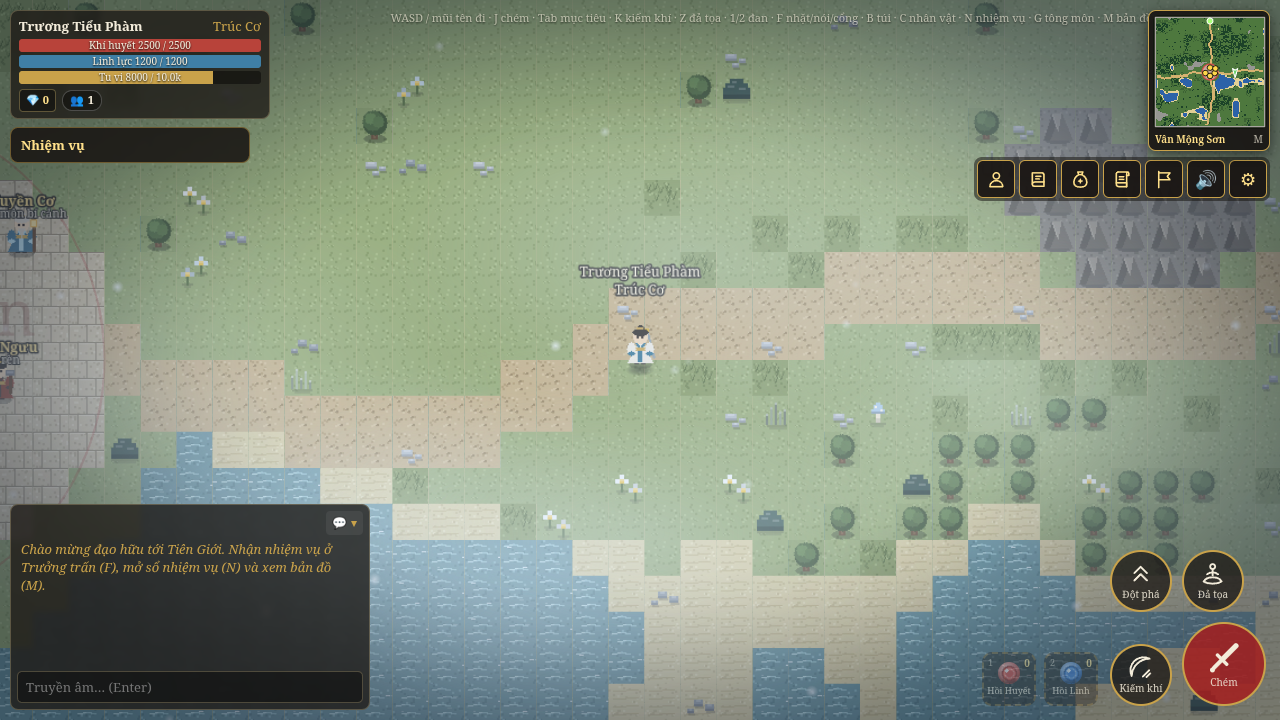
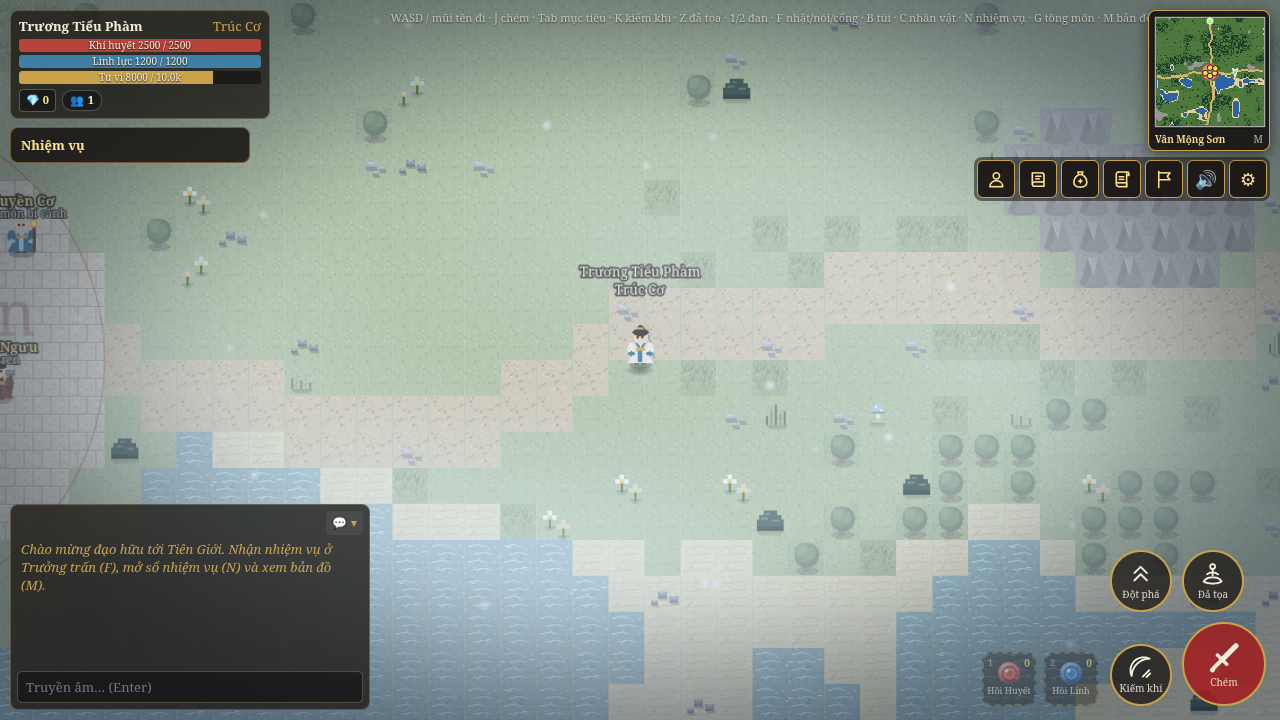
client: #509 tileTint (màu phủ nền theo kiểu bản đồ: tuyết phủ ở Hàn Vân Lĩnh) + cache styleId (nit của A ở #574) (Refs #509)
- MapStyle.tileTint?: { color, alpha } (trần MAX_TILE_TINT_ALPHA 0,45, validateStyle), planTileTint; MAP_STYLES.han_van #e6f0fa alpha 0,36
- WorldScene: một hình chữ nhật phủ cả bản đồ ngay TRÊN lớp ô (độ sâu -9,8) và dưới trang trí / nước / thực thể; chỉ khi kiểu khai báo (chi phí 0 ở bản đồ khác); huỷ khi dựng lại hình bản đồ; không dùng Tile.tint (nhân màu, chỉ làm tối)
- styleId() chốt MỘT lần cho mỗi bản đồ (styleMemo) thay vì tạo URLSearchParams mỗi khung (nit của A: vòng nóng thời tiết / nước)
- check-han-van-style.mjs (Chrome thật): lớp phủ phủ cả bản đồ 3072x3072, đúng độ sâu, đúng màu; nền sáng hơn (173,1 -> 199,3) và lạnh hơn (-47,4 -> -2,0); cảnh mặc định không có; dựng lại không tích luỹ lớp phủ; 4 đột biến tích hợp đỏ
- docs/THIET_KE_NHAN_VAT_6_O.md: ghi trả lời hợp đồng của A, tileTint đã làm; ảnh xem trước chụp lại

diff --git a/client/src/gfx/map-style.ts b/client/src/gfx/map-style.ts
@@ -25,6 +25,12 @@ export interface MapStyle {
   readonly label: string;
   /** Màu môi trường phủ lên cảnh (một sprite gradient, chỉ khi `ambient`); `alpha` 0..1. */
   readonly ambient: { readonly color: number; readonly alpha: number };
+  /**
+   * Màu phủ lên NỀN ô (một hình chữ nhật phủ cả bản đồ, trên lớp ô + dưới trang trí / nước / thực thể; không thêm ảnh, không thêm loại ô): làm nền sáng / lạnh theo
+   * vùng (tuyết phủ ở Hàn Vân Lĩnh) khi bộ ô dùng chung chỉ có cỏ xanh. Không nhân màu (nhuộm kiểu nhân chỉ làm tối): phủ thường nên kéo màu cỏ về phía `color`.
+   * Vắng = không phủ (chi phí 0). `alpha` 0..`MAX_TILE_TINT_ALPHA`.
+   */
+  readonly tileTint?: { readonly color: number; readonly alpha: number };
   /** Vignette (tối dần ra mép màn hình, chỉ khi `vignette`); `strength` 0..1. */
   readonly vignette: { readonly color: number; readonly strength: number };
   /** Sương (số mảng lấy từ hồ sơ `fogPatches`); `speed` px/giây trôi ngang. */
@@ -48,6 +54,8 @@ export interface MapStyle {
 
 /** Trần tổng mật độ trang trí mỗi ô: quá dày thì thành nhiễu, và `buildDecorGrid` cần tổng * 2 (hệ số đám hoa lớn nhất) <= 1. */
 export const MAX_DECOR_DENSITY = 0.5;
+/** Trần độ đậm của màu phủ nền: quá đậm thì xoá mất kiểu ô (đường, cát, nước phải còn phân biệt được). */
+export const MAX_TILE_TINT_ALPHA = 0.45;
 /** Trần hạt thời tiết mỗi giây: dưới trần hạt sống của bậc Cao (520) nhân tuổi thọ ngắn của hạt. */
 export const MAX_WEATHER_RATE = 40;
 
@@ -163,6 +171,8 @@ export const MAP_STYLES: Readonly<Record<string, MapStyle>> = {
     fog: { color: 0xe4f0fb, alpha: 0.3, speed: 7 },
     weather: { kind: "snow", rate: 11 },
     water: { shimmer: 0xe8f6ff, alpha: 0.4, speed: 4 },
+    // Tuyết phủ nền: kéo cỏ xanh của bộ ô dùng chung về trắng xanh (bộ ô không đổi, không thêm ảnh)
+    tileTint: { color: 0xe6f0fa, alpha: 0.36 },
     decor: {
       density: { tuft: 0.03, flower: 0.02, pebble: 0.045, mushroom: 0.008, bush: 0.04 },
       palette: {
@@ -209,6 +219,7 @@ export function validateStyle(s: MapStyle): string[] {
     ["vignette.color", s.vignette.color],
     ["fog.color", s.fog.color],
     ["water.shimmer", s.water.shimmer],
+    ...(s.tileTint ? ([["tileTint.color", s.tileTint.color]] as Array<[string, number]>) : []),
   ];
   for (const [k, c] of colors) if (!isColor(c)) errs.push(`${k} không phải màu 0..0xffffff`);
   if (!inRange(s.ambient.alpha, 0, 0.4))
@@ -218,6 +229,8 @@ export function validateStyle(s: MapStyle): string[] {
   if (!inRange(s.fog.speed, 0, 40)) errs.push("fog.speed ngoài 0..40 px/s");
   if (!inRange(s.water.alpha, 0, 0.5)) errs.push("water.alpha ngoài 0..0.5");
   if (!inRange(s.water.speed, 0, 40)) errs.push("water.speed ngoài 0..40 px/s");
+  if (s.tileTint && !inRange(s.tileTint.alpha, 0, MAX_TILE_TINT_ALPHA))
+    errs.push(`tileTint.alpha ngoài 0..${MAX_TILE_TINT_ALPHA} (phủ nền quá đậm)`);
   if (!inRange(s.weather.rate, 0, MAX_WEATHER_RATE))
     errs.push(`weather.rate ngoài 0..${MAX_WEATHER_RATE}`);
   if (s.weather.kind === "none" && s.weather.rate !== 0) errs.push("weather none mà rate != 0");
@@ -237,4 +250,11 @@ export function validateStyle(s: MapStyle): string[] {
       errs.push(`decor.palette.${k} phải đủ ${DECOR_VARIANTS} màu hợp lệ`);
   }
   return errs;
+}
+
+/** Màu phủ nền cần vẽ cho kiểu này, hoặc `null` (không khai báo / độ đậm 0: không tốn một hình chữ nhật phủ cả bản đồ). */
+export function planTileTint(s: MapStyle): { color: number; alpha: number } | null {
+  const t = s.tileTint;
+  if (!t || !(t.alpha > 0)) return null;
+  return { color: t.color, alpha: Math.min(MAX_TILE_TINT_ALPHA, t.alpha) };
 }

diff --git a/client/src/scenes/WorldScene.ts b/client/src/scenes/WorldScene.ts
@@ -37,7 +37,7 @@ import {
 import { getQuality, onQualityChange } from "../gfx/quality";
 import { buildDecorGrid } from "../gfx/map-decor";
 import { mapPackId, mapsNearPortals, neighborMapIds, packs } from "../gfx/packs";
-import { styleIdFor, styleOf } from "../gfx/map-style";
+import { planTileTint, styleIdFor, styleOf } from "../gfx/map-style";
 import { decorTilesetKey, ensureDecorTileset } from "../gfx/decor-tileset";
 import { ambientEnabledByUrl, planWeather, weatherEnabledByUrl } from "../gfx/map-weather";
 import {
@@ -425,6 +425,9 @@ export class WorldScene extends Phaser.Scene {
   public map: GameMap;
   private mapTilemap?: Phaser.Tilemaps.Tilemap;
   private mapLayer?: Phaser.Tilemaps.TilemapLayer;
+  /** Màu phủ nền của kiểu bản đồ (`MapStyle.tileTint`); chỉ có khi kiểu khai báo. Công khai cho script kiểm `?debug`. */
+  groundWash?: Phaser.GameObjects.Rectangle;
+  private styleMemo?: { mapId: string; id: string };
   /** Lớp trang trí tất định (M5.3 #332): tilemap thứ hai, tileset vẽ bằng mã theo kiểu bản đồ. */
   private decorTilemap?: Phaser.Tilemaps.Tilemap;
   decorLayer?: Phaser.Tilemaps.TilemapLayer;
@@ -641,9 +644,15 @@ export class WorldScene extends Phaser.Scene {
     }
   }
 
-  /** Id kiểu thị giác đang dùng: `mapId`, hoặc kiểu xem trước `?debug&style=<id>` (`styleIdFor`). */
+  /** Id kiểu thị giác đang dùng: `mapId`, hoặc kiểu xem trước `?debug&style=<id>` (`styleIdFor`). Chốt MỘT lần cho mỗi bản đồ: được gọi mỗi khung (thời tiết, nước), không tạo đối tượng. */
   private styleId(): string {
-    return styleIdFor(this.map.def.id, typeof window === "undefined" ? "" : window.location.search);
+    const mapId = this.map.def.id;
+    if (this.styleMemo?.mapId !== mapId)
+      this.styleMemo = {
+        mapId,
+        id: styleIdFor(mapId, typeof window === "undefined" ? "" : window.location.search),
+      };
+    return this.styleMemo.id;
   }
 
   /** Dựng / cập nhật hai ảnh phủ ánh sáng theo kiểu bản đồ hiện tại và hồ sơ chất lượng (gọi lại khi đổi bản đồ / chất lượng). */
@@ -757,6 +766,8 @@ export class WorldScene extends Phaser.Scene {
   }
 
   private buildMapVisuals() {
+    this.groundWash?.destroy();
+    this.groundWash = undefined;
     // 1. Hủy lớp ô cũ nếu có
     if (this.mapLayer) {
       this.mapLayer.destroy();
@@ -793,6 +804,13 @@ export class WorldScene extends Phaser.Scene {
     const ts = this.mapTilemap.addTilesetImage("tiles", TILESET_KEY, TILE, TILE, 0, 0)!;
     this.mapLayer = this.mapTilemap.createLayer(0, ts, 0, 0)!;
     this.mapLayer.setDepth(-10);
+    // 1b. Màu phủ nền theo kiểu bản đồ (tuyết phủ ở Hàn Vân Lĩnh): một hình chữ nhật phủ cả bản đồ NGAY TRÊN lớp ô, dưới trang trí / nước / thực thể
+    const wash = planTileTint(styleOf(this.styleId()));
+    if (wash)
+      this.groundWash = this.add
+        .rectangle(0, 0, this.map.worldW, this.map.worldH, wash.color, wash.alpha)
+        .setOrigin(0, 0)
+        .setDepth(-9.8);
 
     // 2b. Lớp trang trí tất định (cỏ, hoa, đá, nấm, bụi): thuần thị giác, sinh từ seed + mapId nên mọi người thấy giống nhau
     const style = styleOf(this.styleId());

diff --git a/client/src/gfx/map-decor.test.ts b/client/src/gfx/map-decor.test.ts
@@ -13,6 +13,8 @@ import {
   validateStyle,
   type MapStyle,
   styleIdFor,
+  MAX_TILE_TINT_ALPHA,
+  planTileTint,
 } from "./map-style";
 import { NO_DECOR, buildDecorGrid, decorAtTile, decorCounts, hash01, hashId } from "./map-decor";
 
@@ -364,5 +366,43 @@ describe("Hàn Vân Lĩnh: kiểu băng nguyên (M7.8 #509) và xem trước ?de
     expect(styleIdFor("lac_ha", "?debug=1&style=__proto__")).toBe("lac_ha");
     expect(styleIdFor("lac_ha", "?debug=1")).toBe("lac_ha");
     expect(styleIdFor("lac_ha", "")).toBe("lac_ha");
+  });
+});
+
+describe("Màu phủ nền (tileTint): tuyết phủ ở Hàn Vân Lĩnh (M7.8 #509)", () => {
+  it("chỉ Hàn Vân Lĩnh khai báo; màu sáng và LẠNH, độ đậm trong trần (không xoá mất kiểu ô)", () => {
+    const hv = MAP_STYLES.han_van;
+    expect(hv.tileTint).toBeDefined();
+    expect(validateStyle(hv)).toEqual([]);
+    const t = hv.tileTint!;
+    const [r, g, b] = [(t.color >> 16) & 255, (t.color >> 8) & 255, t.color & 255];
+    expect(b).toBeGreaterThan(r); // lạnh
+    expect(Math.min(r, g, b)).toBeGreaterThan(200); // sáng (trắng xanh), không phải màu tối
+    expect(t.alpha).toBeGreaterThan(0.2);
+    expect(t.alpha).toBeLessThanOrEqual(MAX_TILE_TINT_ALPHA);
+    for (const [id, st] of Object.entries(MAP_STYLES))
+      if (id !== "han_van") expect(st.tileTint, id).toBeUndefined();
+  });
+
+  it("validateStyle: độ đậm ngoài trần / màu hỏng bị bắt; planTileTint: vắng hoặc 0 => null, quá trần thì kẹp", () => {
+    const base = MAP_STYLES.han_van;
+    expect(
+      validateStyle({
+        ...base,
+        tileTint: { color: 0xffffff, alpha: MAX_TILE_TINT_ALPHA + 0.01 },
+      }).join(),
+    ).toContain("tileTint.alpha");
+    expect(validateStyle({ ...base, tileTint: { color: 0xffffff, alpha: -0.1 } }).join()).toContain(
+      "tileTint.alpha",
+    );
+    expect(validateStyle({ ...base, tileTint: { color: 0x1000000, alpha: 0.2 } }).join()).toContain(
+      "tileTint.color",
+    );
+    expect(planTileTint(MAP_STYLES.lac_ha)).toBeNull();
+    expect(planTileTint({ ...base, tileTint: { color: 0xffffff, alpha: 0 } })).toBeNull();
+    expect(planTileTint(base)).toEqual(base.tileTint);
+    expect(planTileTint({ ...base, tileTint: { color: 0xffffff, alpha: 5 } })!.alpha).toBe(
+      MAX_TILE_TINT_ALPHA,
+    );
   });
 });

diff --git a/docs/THIET_KE_NHAN_VAT_6_O.md b/docs/THIET_KE_NHAN_VAT_6_O.md
@@ -30,7 +30,7 @@
 
 ## 5. Bản đồ thứ tư (`han_van`)
 - **Kiểu thị giác (ĐÃ làm, mục 7):** `MAP_STYLES.han_van` lạnh trắng xanh (ambient `#bcd6f2`, sương `#e4f0fb` alpha 0,3 trôi 7 px/s, nước băng phản chiếu chậm), thời tiết mới `snow` (hạt trắng ngà rơi chéo nhẹ, 12 hạt mỗi đợt như các loại khác, 11 hạt/giây), trang trí thưa (tuyết phủ): hoa tuyết, đá xám lạnh, nhũ băng thay nấm, tùng sẫm. Không thêm loại ô (đúng `PHAN_CONG_M7.md` mục 8).
-- **Hạn chế đã thấy ở ảnh xem trước** (`docs/screenshots/han-van-xem-truoc.png`, cảnh Lạc Hà ép kiểu): nền ô vẫn xanh cỏ (bộ ô không đổi), nên vẻ băng nguyên chủ yếu do lớp phủ màu + sương + tuyết. Đề xuất (hỏi A): để A khi dựng bản đồ chọn ô nền sáng / cát cho vùng tuyết; B có thể thêm `tileTint` theo kiểu (nhuộm lớp ô, một trường dữ liệu, không thêm ảnh) nếu thấy chưa đủ lạnh.
+- **Nền ô (đã quyết, A 15/11): B thêm `tileTint` theo kiểu, ĐÃ làm.** Ảnh xem trước đầu tiên cho thấy nền ô vẫn xanh cỏ (bộ ô dùng chung), nên vẻ băng nguyên chủ yếu do lớp phủ + sương + tuyết. `MapStyle.tileTint?: { color, alpha }` (trần `MAX_TILE_TINT_ALPHA` 0,45, kiểm bởi `validateStyle`): MỘT hình chữ nhật phủ cả bản đồ ngay TRÊN lớp ô (độ sâu -9,8) và DƯỚI trang trí / nước / thực thể; không thêm ảnh, không thêm loại ô; kiểu vắng khai báo thì chi phí 0. Không dùng `Tile.tint` của Phaser vì nó NHÂN màu (chỉ làm tối): phủ thường kéo cỏ về trắng xanh. `han_van`: `#e6f0fa` alpha 0,36; đo trên Chrome thật: độ sáng trung bình vùng giữa cảnh 173,1 -> 199,3 và xanh - đỏ -47,4 -> -2,0 so với cảnh mặc định (ảnh `docs/screenshots/han-van-xem-truoc.png` đã chụp lại). A chọn địa hình theo lối chơi, không theo màu.
 - **Chuyển cảnh Âm Sương -> Hàn Vân và bản đồ nhỏ / lớn:** dùng `scene-transition.ts` và `map-overview.ts` (#498) như ba bản đồ trước: chỉ thêm mục cho id `han_van` (nhãn, màu nút trên sơ đồ, hướng cổng bắc của Âm Sương). Làm sau khi A đưa `MapDef` + cổng vào `shared/` (M7.5, #506).
 - **Phòng ngừa:** kiểu `han_van` có trước bản đồ nên test "kiểu không mồ côi" có danh sách chờ; khi A thêm bản đồ, test ĐỎ nhắc bỏ `han_van` khỏi danh sách chờ (không để cũ).
 
@@ -46,8 +46,10 @@
 - `MAP_STYLES.han_van` + `WeatherKind "snow"` + công thức hạt `weather-snow` (`recipes-weather.ts`), `styleIdFor` và xem trước `?debug&style=<id>` (id lạ / thiếu `?debug` bị bỏ qua), 4 test mới (nhiều khẳng định mỗi ca) + 1 test sửa (danh sách chờ), 6 đột biến đỏ.
 - `client/scripts/check-han-van-style.mjs` (Chrome thật): có hạt tuyết (tint `#f2f8ff`) mà cảnh mặc định không có; màu trung bình vùng giữa lạnh hơn bản mặc định (xanh - đỏ -47,4 -> -16,7); `?style=constructor` bị bỏ qua.
 
-## 8. Câu hỏi cho A
+## 8. Câu hỏi cho A (A ĐÃ TRẢ LỜI ở #574, 15/11; tóm tắt)
 1. Ba ô riêng của chủ: trường `@view(TAG_OWNER)` trên `Player` (đề xuất) hay mở rộng `InvMsg`?
 2. `statsFor` / `equipBonus` có trả `crit`, `cdr`, `guard` đã kẹp trần, và xuất `STAT_CAPS`?
 3. `TREASURES[].desc` do A viết (tiếng Việt hoàn chỉnh) hay B soạn từ số liệu?
 4. Nền ô vùng tuyết do A chọn khi dựng bản đồ, hay B thêm `tileTint` theo kiểu?
+
+**Trả lời của A (tóm tắt, bản đầy đủ ở comment #574 và PR docs của A):** (1) ba ô mới là trường `Player` `@view(TAG_OWNER)` (`boots`, `jade`, `treasure`), `EQUIP_SLOT_UNLOCK_REALM = { treasure: 3 }`, không mở rộng `InvMsg`; (2) có: `statsFor` / `equipBonus` trả `crit` / `cdr` / `guard` đã kẹp, `STAT_CAPS = { crit: 40, cdr: 30, guard: 40 }`; (3) A viết `TREASURES[].desc` kèm test khớp số; (4) B thêm `tileTint` (đã làm, mục 5).
